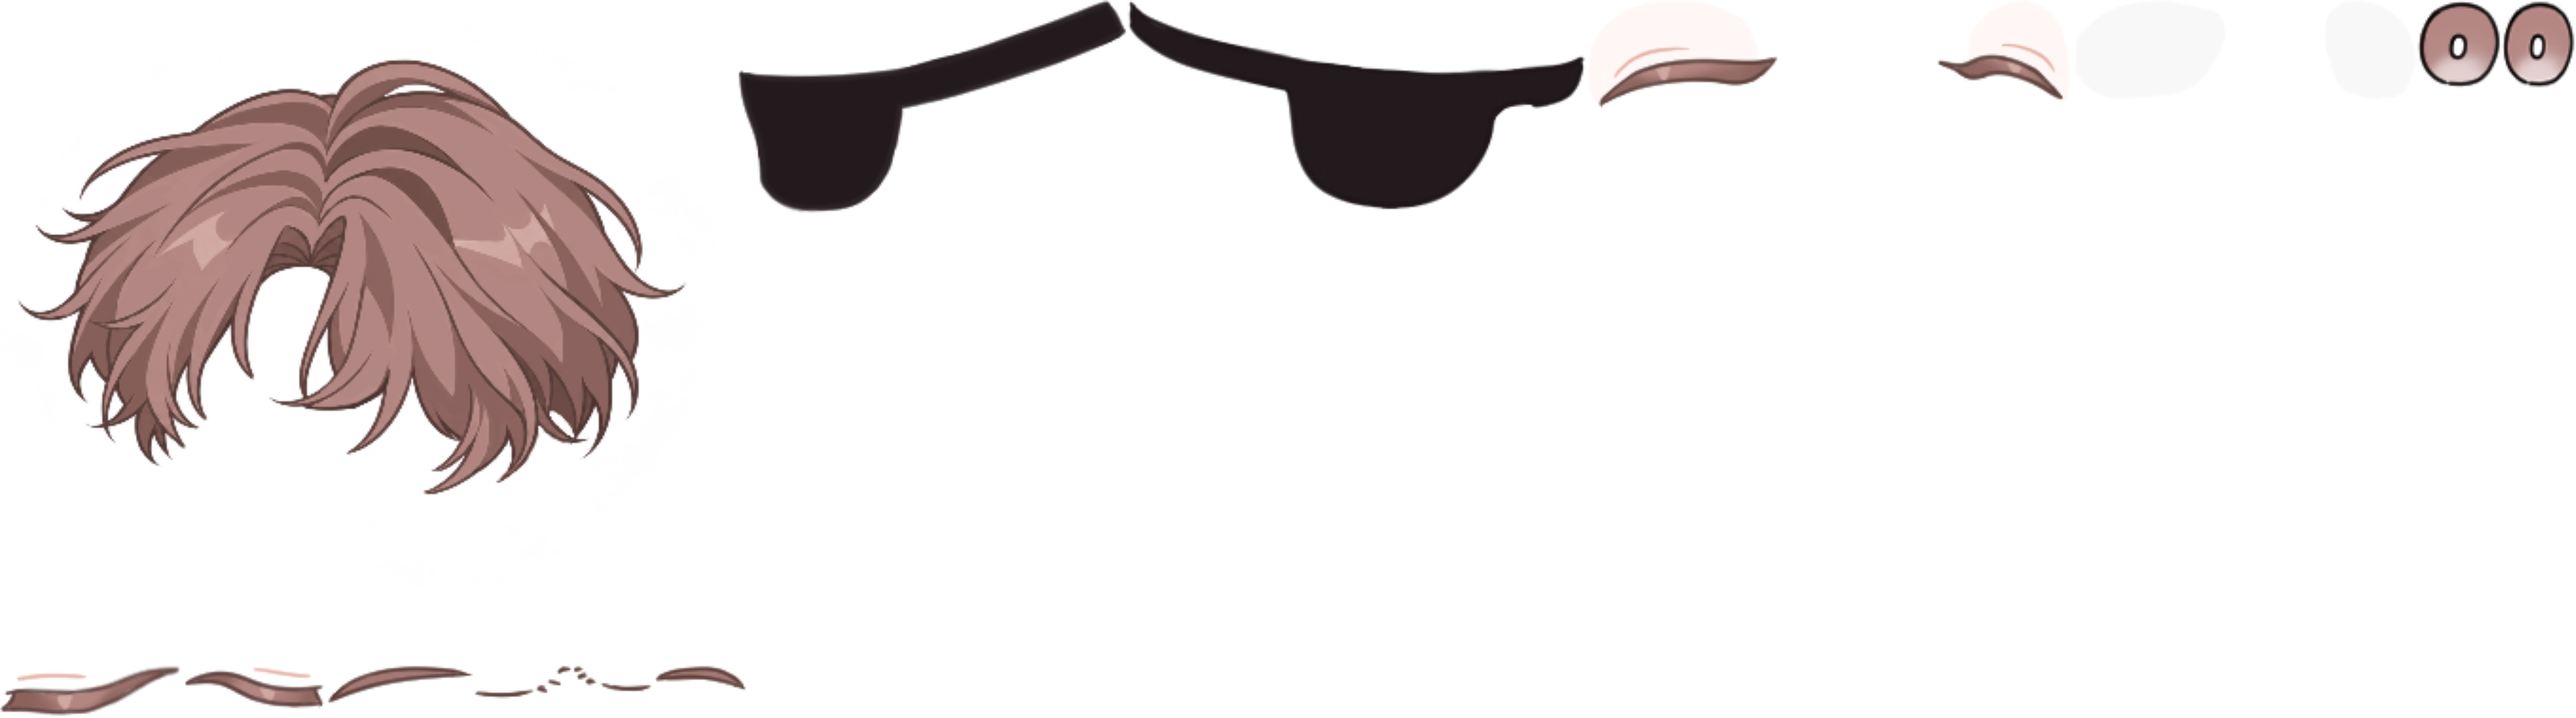
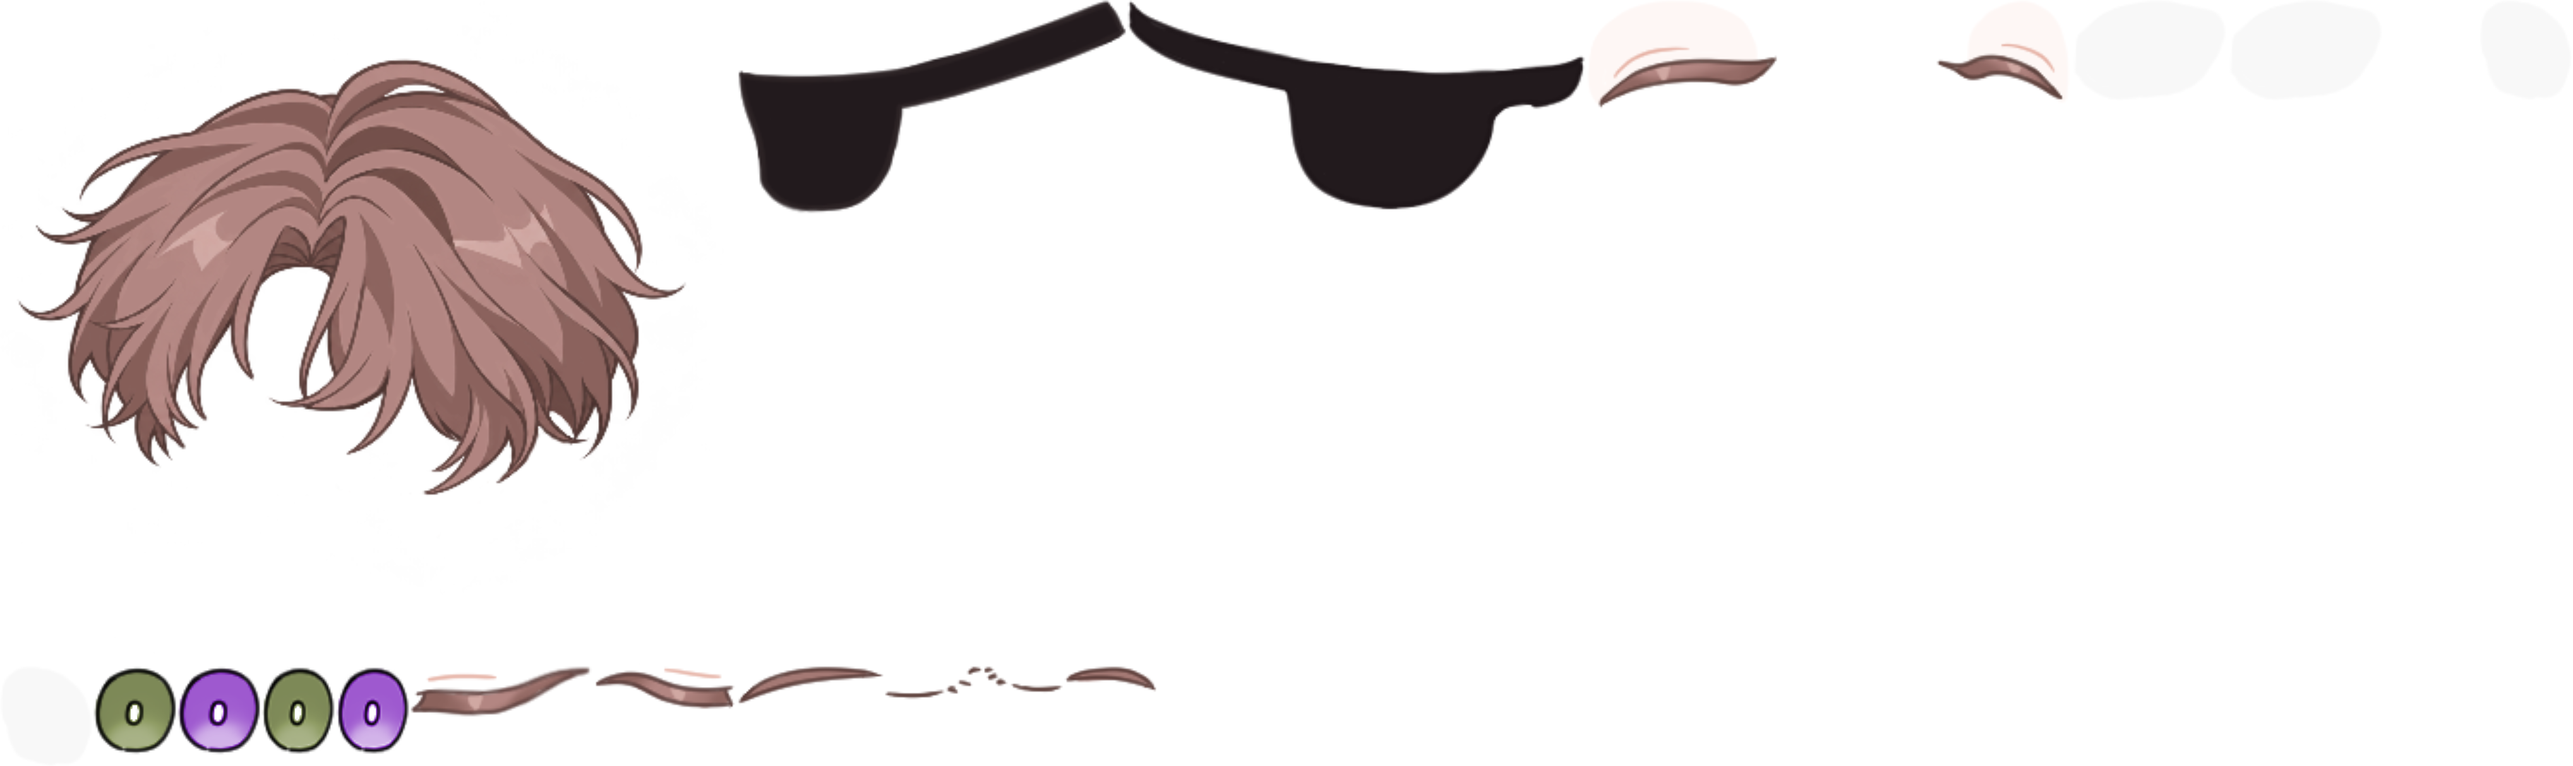
rig: 백사헌 눈 — 눈동자 올리브 그린 · 안대는 늘 화면 왼쪽 눈 · 안대 속 눈(흰자 검정 · 눈동자 보라) 파츠 추가
Claude-Session: https://claude.ai/code/session_01756qBPpCuB22evHBmdXYTY

diff --git a/rig/face/README.md b/rig/face/README.md
@@ -9,6 +9,10 @@
 - 낱장 이름
   - 눈 · 눈썹: 흰자위 · 눈동자 · 속눈썹 아래 · 눈꺼풀 · 감긴 눈 · 눈썹 + ` 오`(오른쪽 · 먼 눈) / ` 왼`(왼쪽 · 가까운 눈)
   - 따로 있는 것: 고영은 `눈꺼풀(눈 감기 전용)` · 곽제강 `안경` · 백사헌 `안대` · 호유원 `눈동자 기본/특수` · `감은 눈`
+  - 백사헌 (2026-11-22)
+    - 눈동자는 올리브 그린(채도 낮은 초록)으로 바꿈 — `눈동자 오` · `눈동자 왼`
+    - 안대는 늘 **화면 왼쪽에 놓인 눈**에: 왼쪽을 볼 때(그림 그대로)는 `안대 오`, 오른쪽을 볼 때(좌우 뒤집어 그림)는 `안대 왼` 을 씌운 그림을 뒤집어 씀
+    - 안대 속 눈(늘 화면 왼쪽 눈)은 흰자 검정 · 눈동자 보라 — `흰자위 오/왼 (안대 속)` · `눈동자 오/왼 (안대 속)` (안대에 가려 보통은 안 보임)
   - 머리카락: 한 가지면 `머리카락`, 여러 가지면 `머리카락/<원래 이름>` (이성해 · 진나솔 · 장허운)
   - 장허운 `머리카락/장허운 뒷머리` 만 원래 800×800 캔버스 (`canvas` 에 적혀 있음)
   - `눈동자 틀 오` · `눈동자 틀 왼` (2026-11-22) — 눈동자가 보여도 되는 자리(흰 그림 · 알파). 눈동자를 움직일 때 이 알파를 곱해서 그린다.
